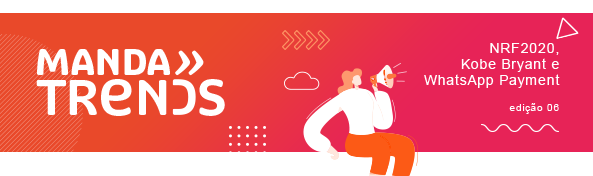
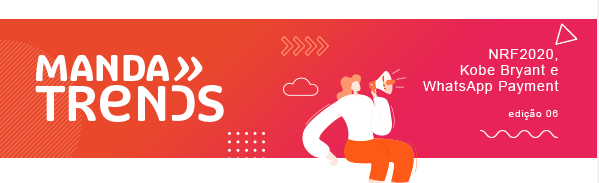
feat: ajustes finais na responsividade

diff --git a/style.css b/style.css
@@ -3,6 +3,7 @@ body {
   justify-content: center;
   align-items: center;
   flex-direction: column;
+  background-color: #f2f2f2;
 }
 
 .header_container {
@@ -12,15 +13,16 @@ body {
   background-image: url("./img/header.png");
   background-position: center;
   background-repeat: no-repeat;
-  background-size: 96% 100%;
+  background-size: 96% 96%;
 }
 
 .main_container {
   width: 100%;
-  max-width: 1200px;
+  max-width: 100vw;
   display: flex;
   justify-content: center;
   flex-direction: column;
+  padding: 15px 20px 0px 20px;
 }
 
 .information {
@@ -36,7 +38,7 @@ body {
 }
 
 .nr_image {
-  width: 100%;
+  width: 98.5%;
   object-fit: contain;
 }
 
@@ -46,10 +48,11 @@ body {
   flex-direction: column;
   align-items: flex-start;
   padding: 5px 0px 0px 5px;
+  background-color: #ffffff;
 }
 
 .title_nr {
-  margin-top: 15px;
+  margin: 10px 0px 25px 8px;
   font-size: 37px;
   font-family: Arial, Helvetica, sans-serif;
   font-weight: 600;
@@ -57,8 +60,7 @@ body {
 }
 
 .description_nr {
-  margin-top: 10px;
-  max-width: 610px;
+  margin: 10px 0px 25px 8px;
   width: 100%;
   font-size: 16px;
   font-family: Arial, Helvetica, sans-serif;
@@ -69,16 +71,16 @@ body {
 }
 
 .fonte_nr {
-  margin-top: 25px;
+  margin: 10px 0px 25px 8px;
   font-family: Arial, Helvetica, sans-serif;
   font-weight: 500;
   color: #c1c1c1;
 }
 
 .linea_nr {
-  margin-top: 5px;
+  margin: 5px 0px 25px 8px;
   margin-bottom: 25px;
-  max-width: 323px;
+  max-width: 427px;
   width: 100%;
   height: 6px;
   background: rgb(212, 56, 103);
@@ -93,8 +95,8 @@ body {
 .area_news {
   width: 100%;
   display: flex;
-  align-items: center;
   justify-content: space-between;
+  background-color: #ffffff;
 }
 
 .area_nba,
@@ -114,11 +116,11 @@ body {
   width: 100%;
   height: 100%;
   padding: 5px;
-  object-fit: contain;
+  object-fit: cover;
 }
 
 .title_nba {
-  margin: 10px 0px 25px 8px;
+  margin: 10px 0px 25px 0px;
   width: 85%;
   font-size: 34px;
   font-family: Arial, Helvetica, sans-serif;
@@ -149,12 +151,12 @@ body {
   max-width: 323px;
   width: 100%;
   height: 6px;
-  background: rgb(212, 56, 103);
+  background: rgb(116, 192, 206);
   background: linear-gradient(
     90deg,
-    rgba(212, 56, 103, 1) 0%,
-    rgba(177, 76, 126, 1) 50%,
-    rgba(119, 89, 158, 1) 100%
+    rgba(116, 192, 206, 1) 0%,
+    rgba(107, 146, 191, 1) 50%,
+    rgba(103, 107, 172, 1) 100%
   );
 }
 
@@ -163,13 +165,43 @@ body {
   max-width: 323px;
   width: 100%;
   height: 6px;
-  background: rgb(212, 56, 103);
+  background: rgb(112, 197, 200);
   background: linear-gradient(
     90deg,
-    rgba(212, 56, 103, 1) 0%,
-    rgba(177, 76, 126, 1) 50%,
-    rgba(119, 89, 158, 1) 100%
+    rgba(112, 197, 200, 1) 0%,
+    rgba(85, 187, 167, 1) 50%,
+    rgba(63, 181, 146, 1) 100%
   );
+}
+
+footer {
+  width: 100%;
+  max-width: 100vw;
+  display: flex;
+  justify-content: center;
+  flex-direction: column;
+  padding: 0px 20px 0px 20px;
+}
+
+.area_mandarin {
+  width: 100%;
+  height: 88px;
+  display: flex;
+  justify-content: center;
+  align-items: center;
+  background-image: url("./img/mensagem_footer.png");
+  background-position: center;
+  background-repeat: no-repeat;
+  background-size: 100% 100%;
+}
+
+.frase_footer {
+  margin-top: 20px;
+  margin-bottom: 20px;
+  text-align: center;
+  font-family: "Open Sans", sans-serif;
+  color: #646869;
+  font-weight: 500;
 }
 
 @media (max-width: 1004px) {
@@ -185,12 +217,15 @@ body {
   .title_nba,
   .title_whatsapp {
     width: auto;
-    font-size: 20px;
+    font-size: 22px;
     line-height: 32px;
   }
 }
 
 @media (max-width: 700px) {
+  .main_container {
+    padding: 0px 3px 0px 3px;
+  }
   .information {
     width: 98%;
   }
@@ -201,9 +236,11 @@ body {
   .description_nr {
     text-align: justify;
     line-height: 24px;
+    margin: 0px;
   }
 
   .area_news {
+    width: 98%;
     flex-direction: column;
   }
 
@@ -222,5 +259,13 @@ body {
   .linea_nr,
   .linea_whatsapp {
     width: 76%;
+  }
+
+  .frase_footer {
+    font-size: 11px;
+  }
+
+  footer {
+    padding: 0px 8px 0px 8px;
   }
 }

diff --git a/index.html b/index.html
@@ -4,6 +4,10 @@
     <meta charset="UTF-8" />
     <meta name="viewport" content="width=device-width, initial-scale=1.0" />
     <link rel="stylesheet" href="./reset.css" />
+    <link
+      href="https://fonts.googleapis.com/css2?family=Open+Sans:ital,wght@0,300;0,400;0,500;0,600;0,700;0,800;1,300;1,400;1,500;1,600;1,700;1,800&display=swap"
+      rel="stylesheet"
+    />
     <link rel="stylesheet" href="./style.css" />
     <title>Manda Trends</title>
   </head>
@@ -24,7 +28,7 @@
           </h1>
           <p class="description_nr">
             O maior evento sobre varejo do mundo mostrando as tendências,
-            oportunidades e inovações para o setor.
+            oportunidades e <br />inovações para o setor.
           </p>
           <em class="fonte_nr"> Fonte: CMO ADOBE </em>
           <div class="linea_nr"></div>
@@ -61,5 +65,15 @@
         </div>
       </section>
     </main>
+    <footer>
+      <div class="area_mandarin"></div>
+      <p class="frase_footer">
+        Copyright ® Mandarin. Todos os direitos reservados. <br />
+        Caso não deseje mais receber nossos e-mails, por favor
+        <u>clique aqui</u>.
+      </p>
+    </footer>
   </body>
 </html>
+
+<!-- Observação:  caso seja aprovado o desing, substituir a tag u pela tag âncora. -->

diff --git a/reset.css b/reset.css
@@ -15,10 +15,6 @@ html {
   overflow-x: hidden !important;
 }
 
-a {
-  text-decoration: none;
-}
-
 button {
   cursor: pointer;
   background-color: transparent;
